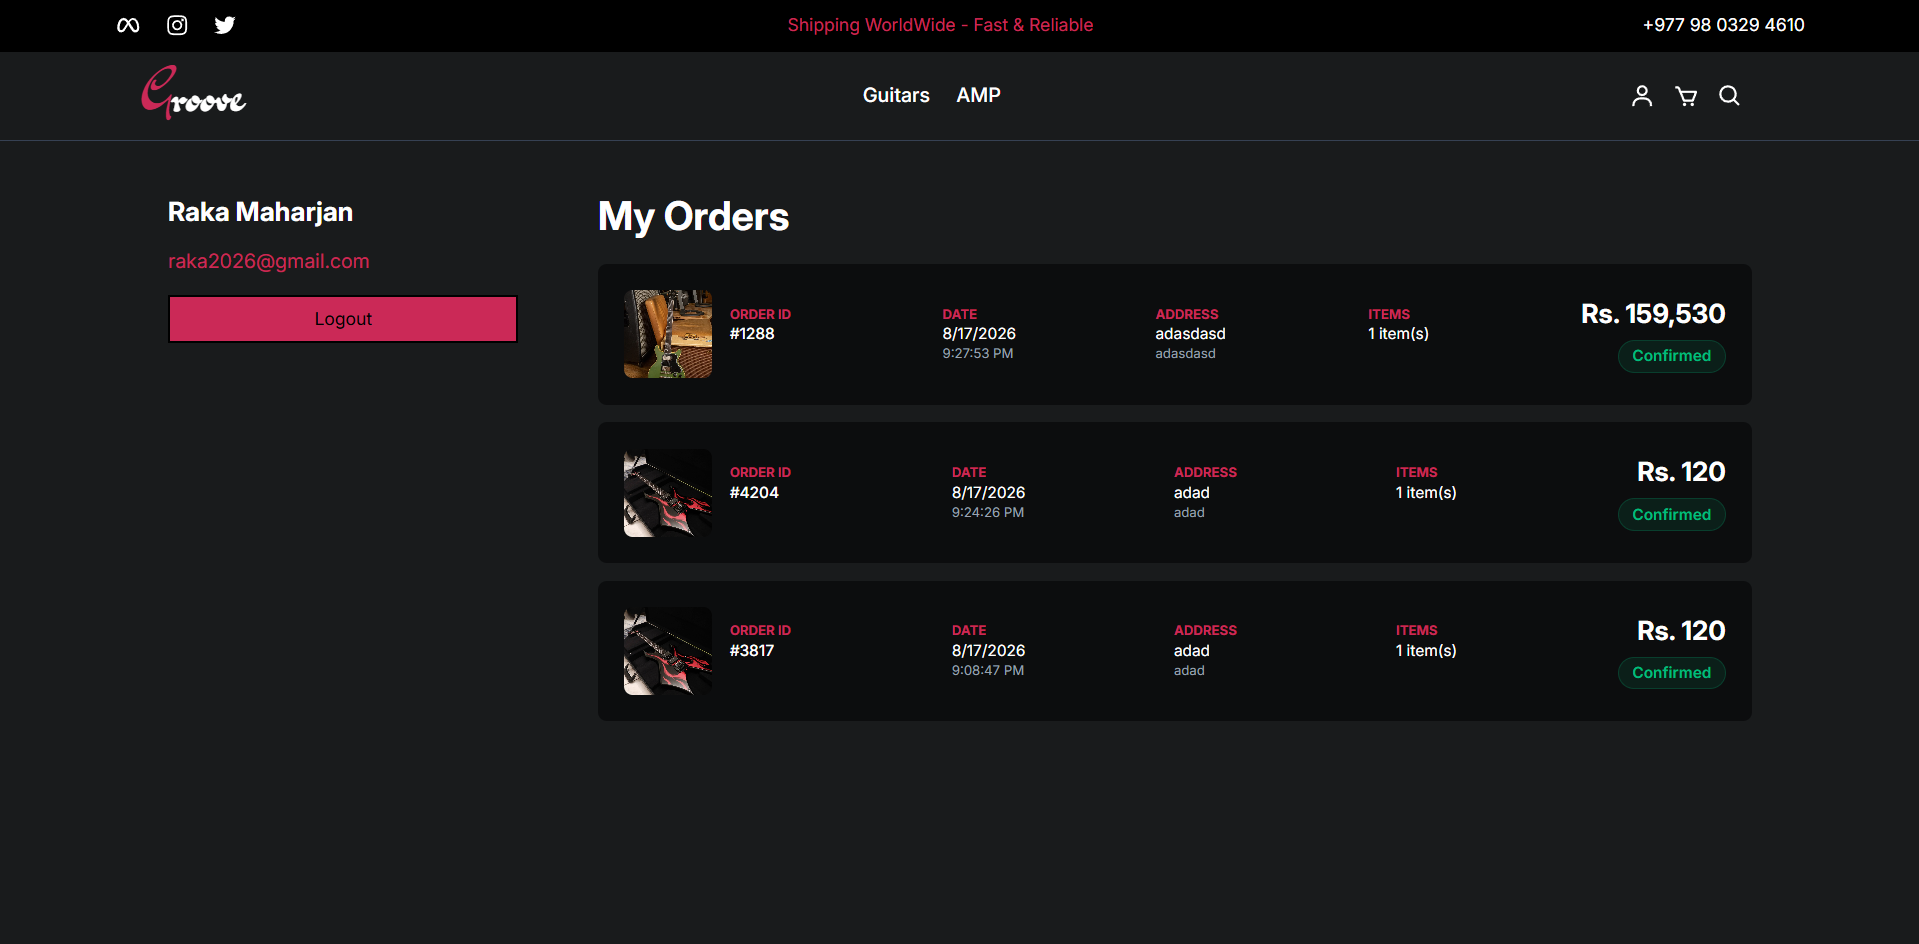
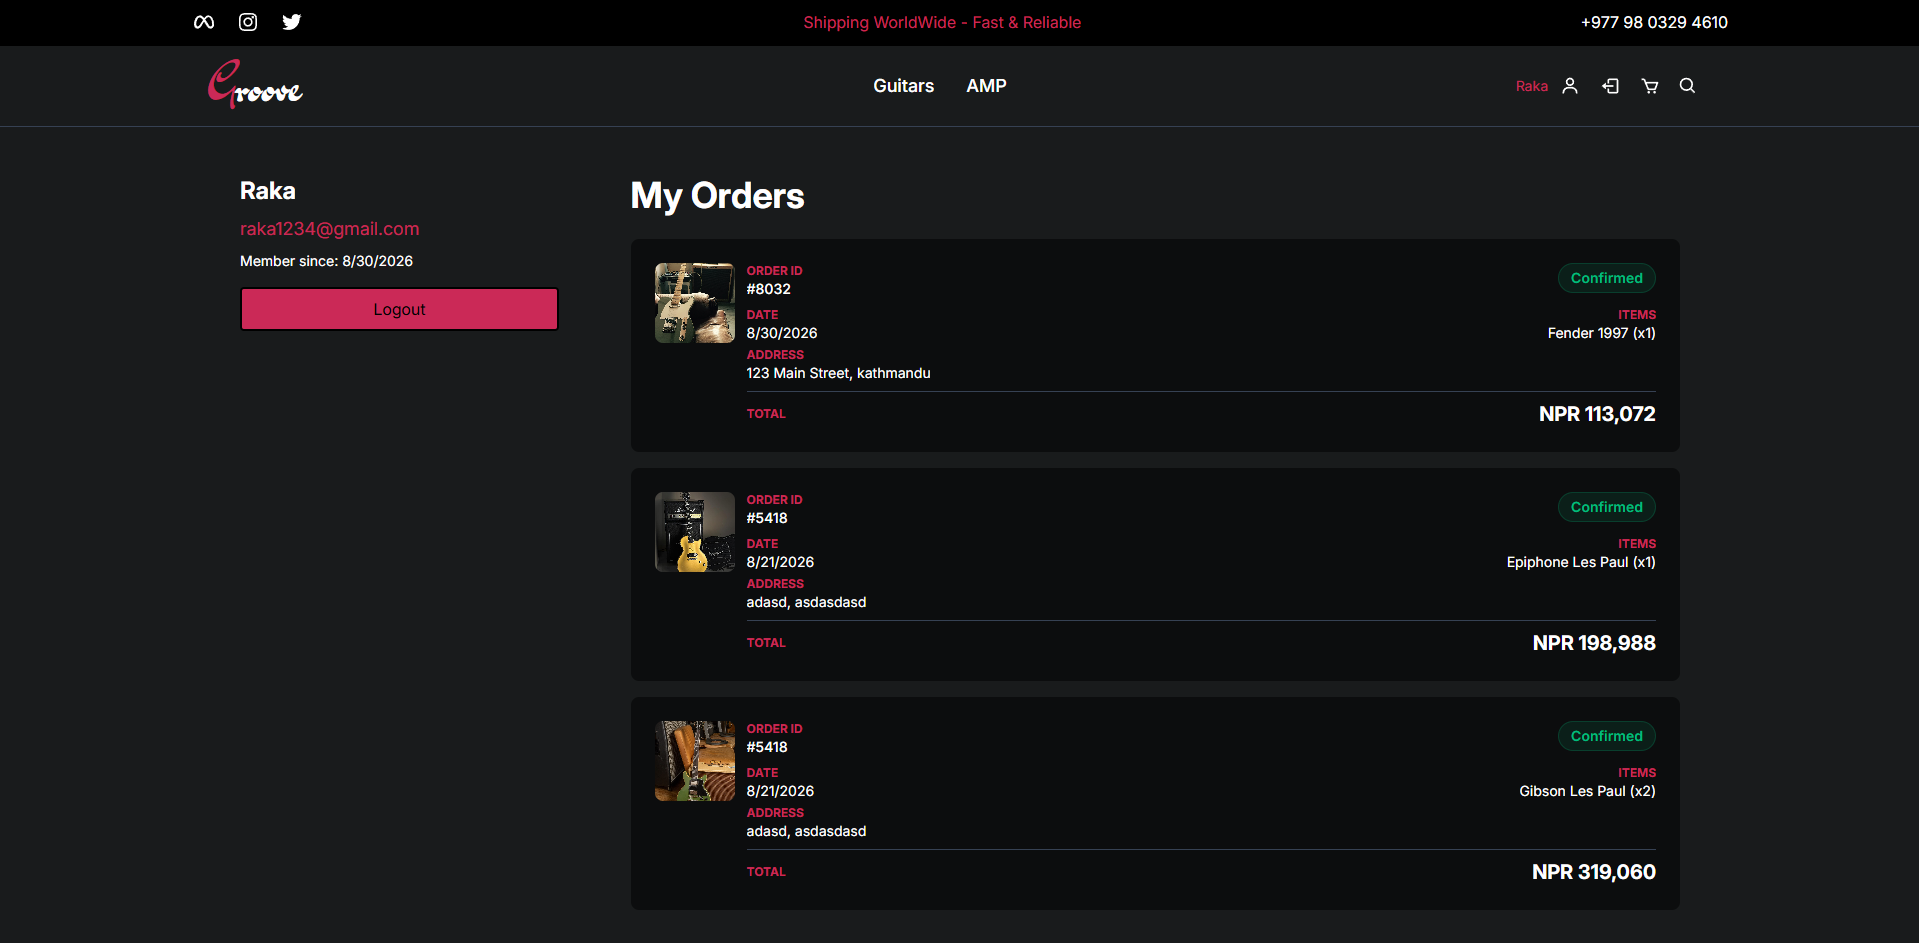
User Authentication was added.

diff --git a/README.md b/README.md
@@ -49,7 +49,7 @@ A full-featured ecommerce web application for purchasing guitars and amplifiers.
 - Total price calculation
 - Cart counter in header
 
-### User Authentication (In-Progress)
+### User Authentication
 - Login and registration pages
 - User session management with localStorage
 - Protected routes (checkout requires login)
@@ -102,7 +102,7 @@ A full-featured ecommerce web application for purchasing guitars and amplifiers.
   - Cart items
 
 ### Libraries & Tools
-- **Sonner** - Toast notifications
+- **React Hot Toast** - Toast notifications
 - **React Spinners** - Loading animations (FadeLoader, SyncLoader)
 - **Vite** - Build tool and development server
 
